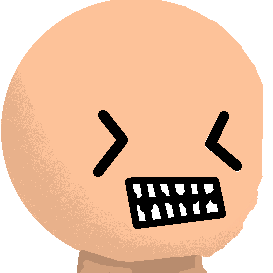
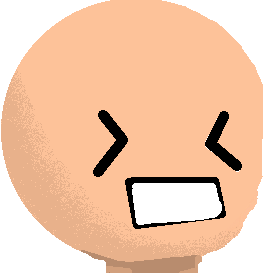
💄 feat: 헤드 파츠 이미지 수정 및 캐릭터 렌더링 크기 조정

Changed region(s): [[0.4689, 0.6447, 0.8205, 0.8205], [0.2637, 0.9084, 0.4103, 1.0], [0.7033, 0.9084, 0.7912, 1.0]]

diff --git a/src/components/customize/CustomizePanel.tsx b/src/components/customize/CustomizePanel.tsx
@@ -300,11 +300,11 @@ export default function CustomizePanel({
       <div className="flex flex-row w-full h-[480px] bg-white py-70">
         {/* 왼쪽: 캐릭터 미리보기 */}
         <div className="flex-1 flex items-center justify-center">
-          <div className="relative size-[220px]">
+          <div className="relative w-28 h-28">
             <CharacterRenderer
-              width={220}
-              height={220}
-              className="w-full h-full"
+              width={112}
+              height={112}
+              className="object-contain drop-shadow-lg w-28 h-28"
               priority
               showBase={true}
             />

diff --git a/src/utils/partUtils.ts b/src/utils/partUtils.ts
@@ -60,7 +60,7 @@ const INDIVIDUAL_PART_ADJUSTMENTS: Record<
 > = {
   // 토마토 머리 - 카테고리 기본값에 추가로 적용
   "Head1.png": { offsetX: 0, offsetY: -27, scale: 0.38 },
-  "Head2.png": { offsetX: 0, offsetY: 0, scale: 0.35 },
+  "Head2.png": { offsetX: 0, offsetY: -25.5, scale: 0.28 },
 
   // 다른 머리 파츠 예시
   // "Head3.png": { offsetX: 2, offsetY: -3, scale: 0.95 },
